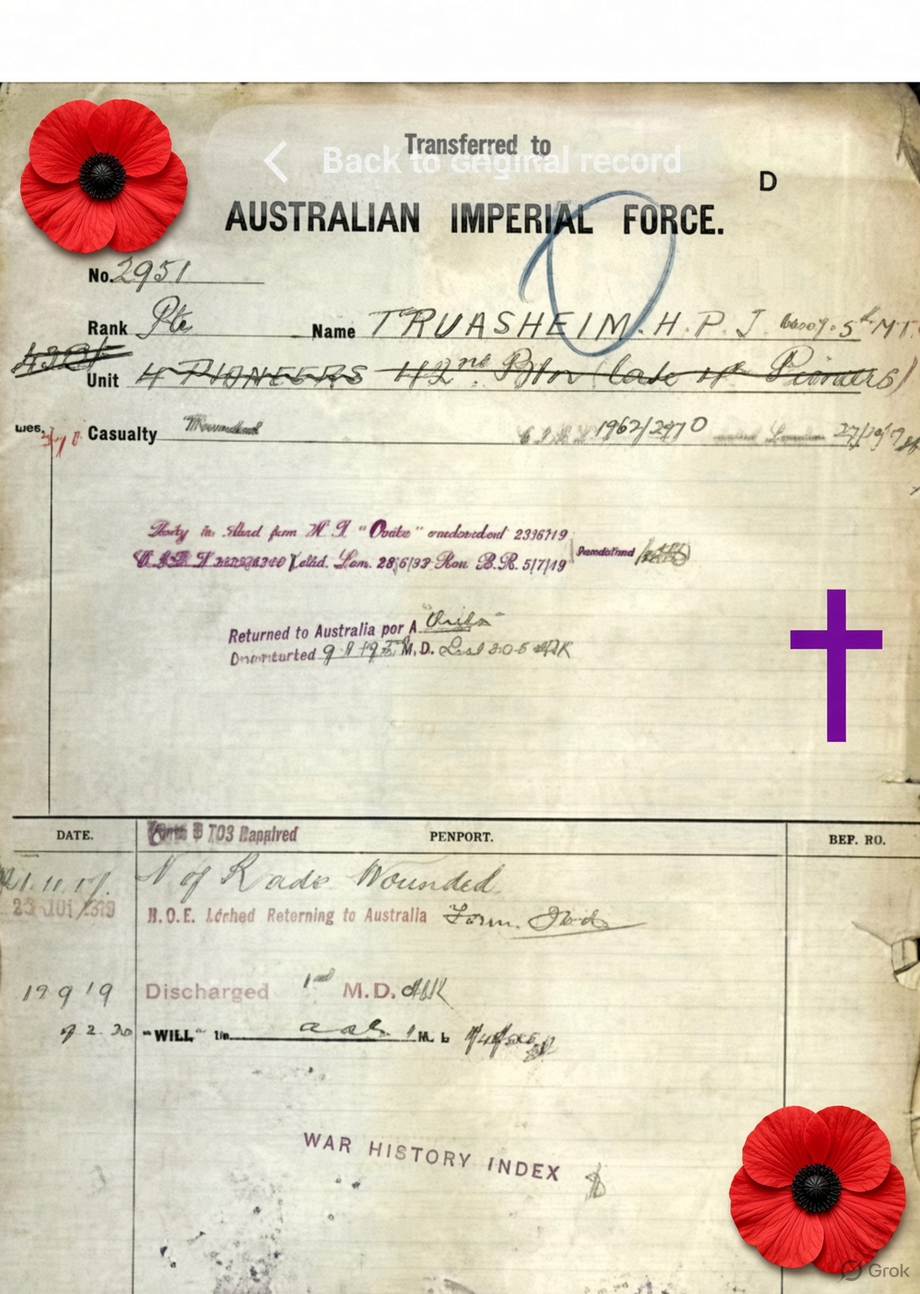
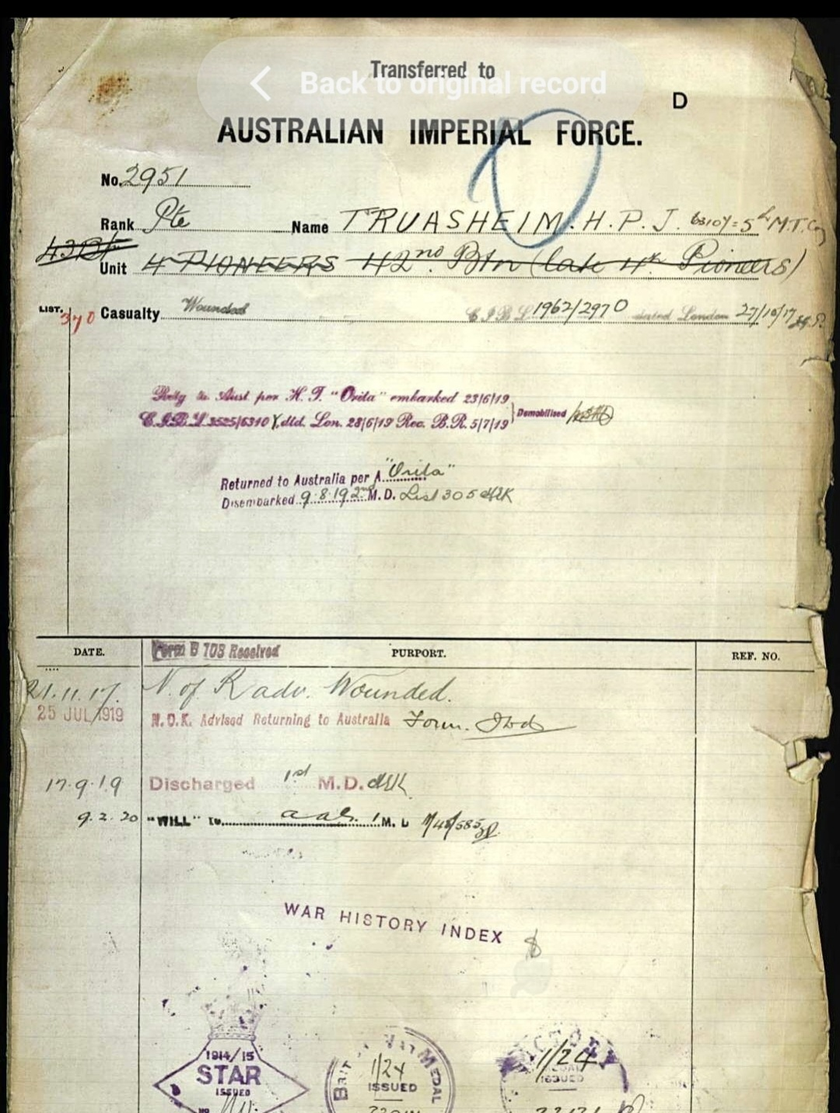
Replace decorated service paper with unchanged clean record scan

diff --git a/index.html b/index.html
@@ -1,3 +1,3 @@
 <!DOCTYPE html>
 
-<html lang="en-AU"><head><meta charset="utf-8"/><meta content="width=device-width,initial-scale=1" name="viewport"/><meta content="Harold’s family story: a young bugler from Fernvale, a remembered sound, and why we remember on Remembrance Day." name="description"/><title>My Granddad was a Bugler — Harold’s Story</title><link href="assets/site.css?v=20261107-oliver-style" rel="stylesheet"/></head><body><a class="skip" href="#story">Skip to Harold’s story</a><header class="wrap" id="home"><h1><svg aria-hidden="true" class="poppy-mark" focusable="false" height="44" viewbox="0 0 64 64" width="44"><circle cx="23" cy="22" fill="#ad3446" r="17"></circle><circle cx="42" cy="23" fill="#bb3c4e" r="17"></circle><circle cx="23" cy="42" fill="#bb3c4e" r="17"></circle><circle cx="42" cy="42" fill="#ad3446" r="17"></circle><circle cx="32" cy="32" fill="#352c2a" r="11"></circle></svg>My Granddad was a Bugler</h1><p class="subtitle">Harold’s story — a clear note and a family memory</p></header><main class="wrap"><article class="blog-article"><p class="article-intro">A bugle could call soldiers together. Years later, its clear note brought Harold’s grandchildren running in from the beach. This is his family’s story.</p><div class="opening"><figure class="portrait"><a aria-label="Open larger image: Illustrated cover with a bugle and red poppies." href="assets/images/story-01.jpg"><img alt="Illustrated cover with a bugle and red poppies." fetchpriority="high" height="1168" src="assets/images/story-01.jpg" width="784"/></a></figure></div><p class="gentle">Some parts mention loss, war and being wounded. You can read with an adult, <a href="#home-again">skip the trench details</a>, or go straight to <a href="#remember">why we remember</a>.</p><section aria-label="Harold’s story" id="story"><section class="story-part" id="part-1"><h2>The Boy from Fernvale</h2><p>Harold was just 18 in 1916 when he signed up for the war. He grew up in Fernvale, Queensland. By the time the war started, he already knew how to work hard.</p><p>Before the war, Harold worked as a butcher’s boy in Fernvale to help his family. His dad had died when Harold was only eight.</p><figure class="portrait"><a aria-label="Open larger image: Portrait-style picture of a young bugler holding his instrument." href="assets/images/story-02.jpg"><img alt="Portrait-style picture of a young bugler holding his instrument." height="1632" loading="lazy" src="assets/images/story-02.jpg" width="1216"/></a></figure></section><section class="story-part" id="part-2"><h2>Working Hard</h2><p>He wrapped meat, swept the floor, and learned to use a knife carefully. By the time he was fourteen, he had left school and was already earning his living.</p><p>Harold walked into a recruiting office in Brisbane and signed up. He had only just turned 18, and he was shorter than many of the other men. The officers looked at him and weren’t sure he would be strong enough for the usual soldier jobs, but they took him anyway.</p><figure class="portrait"><a aria-label="Open larger image: Harold’s attestation paper." href="assets/images/story-03.jpg?v=clean-attestation-20261107"><img alt="Harold’s attestation paper with its original official markings and handwriting." height="1436" loading="lazy" src="assets/images/story-03.jpg?v=clean-attestation-20261107" width="1070"/></a><figcaption>Ancestry record.</figcaption></figure></section><section class="story-part" id="part-3"><h2>The Clear Note</h2><p>He sailed from Brisbane on the troopship HMAT Boonah. The men went first to Egypt, where the 4th Pioneer Battalion was being formed. They trained in the heat and dust.</p><p>The battalion needed someone to play the bugle. One day in camp an officer asked if anyone could play. Young Harold said he could. The officer handed him a bugle and told him to show what he could do.</p><p>Harold put it to his lips and blew one clear, steady note. Then he tried a few of the calls. The officer listened and nodded. Harold got the job. He became a bugler for his unit.</p><figure class="landscape"><a aria-label="Open larger image: HMAT Boonah photograph." href="assets/images/story-04.jpg"><img alt="Historical photograph of the Australian troopship HMAT Boonah, about 1920." height="512" loading="lazy" src="assets/images/story-04.jpg" width="636"/></a></figure></section><section class="story-part" id="part-4"><h2>In the Trenches</h2><p>Later the battalion went to France. In winter the trenches were deep with mud. Cold water filled the bottom and the men stood in it for hours. Sometimes snow fell and lay on the frozen mud. The wind was sharp and hands went numb.</p><p>Harold was a bugler for his unit. The 4th Pioneer Battalion helped build and repair trenches. These were long, narrow ditches used by soldiers for protection and movement. Working in and around them could still be dangerous.</p><figure class="landscape"><a aria-label="Open larger image: Collage of soldiers and a bugler among muddy trenches." href="assets/images/story-05.jpg"><img alt="Collage of soldiers and a bugler among muddy trenches." height="784" loading="lazy" src="assets/images/story-05.jpg" width="1168"/></a></figure><div class="gallery"><figure class="landscape"><a aria-label="Open larger image: Collage of a bugler playing beside a trench and soldiers resting." href="assets/images/story-07.jpg"><img alt="Collage of a bugler playing beside a trench and soldiers resting." height="784" loading="lazy" src="assets/images/story-07.jpg" width="1168"/></a></figure></div><aside aria-labelledby="tour-heading" class="trench-tour"><p class="tour-kicker">Optional · Explore with an adult</p><h3 id="tour-heading">Explore a trench</h3><p>Look around model trench displays in the National WWI Museum and Memorial’s narrated immersive tour. It shows the museum’s displays before their 2024 renovation, not Harold’s own trench.</p><p><a class="button" href="https://artsandculture.google.com/story/MwXR5svcf515Iw" rel="noopener noreferrer" target="_blank">Open the museum’s immersive tour ↗</a></p><p class="note">An adult should preview this war-history tour and decide whether it suits you. Start on an ordinary screen; the museum also describes a VR option. You can skip the tour and keep reading. This opens Google Arts &amp; Culture in a new tab; nothing is embedded or played here.</p><p class="note"><a href="https://www.theworldwar.org/learn/educator-resource/immersive-tour-trenches-world-war-i" rel="noopener noreferrer" target="_blank">About this tour — National WWI Museum and Memorial ↗</a></p></aside></section><section class="story-part" id="home-again"><h2>Home Again</h2><p>Harold was wounded in France. He was sent home. He kept the bugle.</p><p>Years later, at his beach house in Beachmere, Harold would still take out the bugle. He blew one clear note from the balcony so the grandchildren would come running in from the beach.</p><figure class="portrait"><a aria-label="Open larger image: Service-paper collage." href="assets/images/story-09.jpg"><img alt="Service-paper collage." height="1664" loading="lazy" src="assets/images/story-09.jpg" width="1184"/></a><figcaption>Ancestry records (family attribution; edited collage).</figcaption></figure></section><section class="story-part" id="part-6"><h2>We Remember</h2><p>Today, when someone hears a bugle on Anzac Day or Remembrance Day, someone in the family thinks of the boy from Fernvale.</p><figure class="landscape"><a aria-label="Open larger image: Illustration of a bugler playing beside an Anzac memorial and wreaths." href="assets/images/story-10.jpg"><img alt="Illustration of a bugler playing beside an Anzac memorial and wreaths." height="784" loading="lazy" src="assets/images/story-10.jpg" width="1168"/></a></figure></section></section><section class="remember" id="remember"><p class="eyebrow">11 November</p><h2><svg aria-hidden="true" class="poppy-mark" focusable="false" height="44" viewbox="0 0 64 64" width="44"><circle cx="23" cy="22" fill="#ad3446" r="17"></circle><circle cx="42" cy="23" fill="#bb3c4e" r="17"></circle><circle cx="23" cy="42" fill="#bb3c4e" r="17"></circle><circle cx="42" cy="42" fill="#ad3446" r="17"></circle><circle cx="32" cy="32" fill="#352c2a" r="11"></circle></svg>Why we remember</h2><p>Remembrance Day is a time to remember people who died or suffered in wars and armed conflicts. It is not a celebration of war.</p><p>At 11 am on 11 November 1918, an agreement called an <strong>armistice</strong> stopped fighting on the Western Front in Europe. This did not mean that every war everywhere had ended.</p><p>In Australia, people are encouraged to pause for one minute’s silence at 11 am on 11 November. We can remember those who served, think about families and civilians affected by war, and hope for peace.</p><p>Red poppies grew on damaged battlefields in northern France and Belgium. The red poppy became a symbol of remembrance.</p><p class="lest"><svg aria-hidden="true" class="poppy-mark" focusable="false" height="44" viewbox="0 0 64 64" width="44"><circle cx="23" cy="22" fill="#ad3446" r="17"></circle><circle cx="42" cy="23" fill="#bb3c4e" r="17"></circle><circle cx="23" cy="42" fill="#bb3c4e" r="17"></circle><circle cx="42" cy="42" fill="#ad3446" r="17"></circle><circle cx="32" cy="32" fill="#352c2a" r="11"></circle></svg>Lest we forget.</p><p><strong>Does your family have a way of remembering someone who served?</strong> You can think about Harold’s story instead if you prefer not to share a personal memory.</p></section><section class="listen" id="listen"><p class="eyebrow">Listening is optional</p><h2>Listen to the bugle</h2><p>A bugler is someone who plays a bugle. The Last Post is a particular bugle call used at remembrance ceremonies.</p><div class="listen-links"><a class="button" href="https://www.awm.gov.au/anzacathome/remembering-hub/listen" rel="noopener noreferrer" target="_blank">Listen: the Last Post ↗</a><a href="https://www.awm.gov.au/commemoration/customs-and-ceremony/last-post" rel="noopener noreferrer" target="_blank">Read about the Last Post ↗</a><a href="https://www.awm.gov.au/collection/S00265" rel="noopener noreferrer" target="_blank">Bugle recordings: Last Post and Reveille ↗</a></div><p class="note">These links open Australian War Memorial pages in a new tab. Listen with an adult, starting at a low volume. Nothing plays automatically on this page. The recordings are not of Harold.</p></section><details class="sources"><summary>Image credits and historical sources</summary><p>This family recollection has not been independently checked against service records. Some artwork is AI-generated. Illustrations and edited record collages are not presented as independently authenticated photographs or original military records.</p><p>The family identifies the records as Ancestry records. The service-paper collage includes decorative additions and a Grok watermark; the underlying records have not been independently verified here.</p><p>Ship photograph: <a href="https://commons.wikimedia.org/wiki/File:HMAT_Boonah.jpg">HMAT Boonah, about 1920 — Wikimedia Commons</a>. Photographer not identified on the file page. The file is marked public domain under PD-Australia and PD-1996. This photograph shows the vessel, not a verified image of Harold’s voyage.</p><p>Creators and underlying rights for the other images have not been established; no public-domain status is claimed for them.</p><p>Historical context: <a href="https://www.awm.gov.au/commemoration/remembrance-day/traditions">Australian War Memorial: Origins of Remembrance Day</a>; <a href="https://www.awm.gov.au/commemoration/customs-and-ceremony/poppies">Flanders poppies</a>; <a href="https://www.awm.gov.au/commemoration/customs-and-ceremony/last-post">The Last Post</a>.</p><p>Optional immersive tour: <a href="https://artsandculture.google.com/story/MwXR5svcf515Iw">Trenches — National WWI Museum and Memorial, Google Arts &amp; Culture</a>. The museum describes narrated model-trench exploration with a VR option. It is not a tour of Harold’s personal service locations. Adult preview is recommended.</p><p>4th Pioneer Battalion and trenches: Australian War Memorial records show members <a href="https://www.awm.gov.au/collection/E03358">moving up to the trenches at Le Verguier</a>, <a href="https://www.awm.gov.au/collection/C1223148">digging a support trench at Hamel</a>, and <a href="https://www.awm.gov.au/collection/P11031309">repairing communication trenches near Pozières</a>. These establish the unit’s work, not Harold’s individual duties or where he sounded his bugle. Some linked service histories describe deaths and injuries; adults should preview them.</p></details></article></main><footer class="wrap"><p>Story © 2026</p><p><a href="#home">Back to the start ↑</a> · <a href="teacher/">Read-together notes</a> · <a href="worksheet.html">Draw and remember</a></p><p><a href="https://robmac10.github.io/history.html">Author’s History website ↗</a></p></footer></body></html>
+<html lang="en-AU"><head><meta charset="utf-8"/><meta content="width=device-width,initial-scale=1" name="viewport"/><meta content="Harold’s family story: a young bugler from Fernvale, a remembered sound, and why we remember on Remembrance Day." name="description"/><title>My Granddad was a Bugler — Harold’s Story</title><link href="assets/site.css?v=20261107-oliver-style" rel="stylesheet"/></head><body><a class="skip" href="#story">Skip to Harold’s story</a><header class="wrap" id="home"><h1><svg aria-hidden="true" class="poppy-mark" focusable="false" height="44" viewbox="0 0 64 64" width="44"><circle cx="23" cy="22" fill="#ad3446" r="17"></circle><circle cx="42" cy="23" fill="#bb3c4e" r="17"></circle><circle cx="23" cy="42" fill="#bb3c4e" r="17"></circle><circle cx="42" cy="42" fill="#ad3446" r="17"></circle><circle cx="32" cy="32" fill="#352c2a" r="11"></circle></svg>My Granddad was a Bugler</h1><p class="subtitle">Harold’s story — a clear note and a family memory</p></header><main class="wrap"><article class="blog-article"><p class="article-intro">A bugle could call soldiers together. Years later, its clear note brought Harold’s grandchildren running in from the beach. This is his family’s story.</p><div class="opening"><figure class="portrait"><a aria-label="Open larger image: Illustrated cover with a bugle and red poppies." href="assets/images/story-01.jpg"><img alt="Illustrated cover with a bugle and red poppies." fetchpriority="high" height="1168" src="assets/images/story-01.jpg" width="784"/></a></figure></div><p class="gentle">Some parts mention loss, war and being wounded. You can read with an adult, <a href="#home-again">skip the trench details</a>, or go straight to <a href="#remember">why we remember</a>.</p><section aria-label="Harold’s story" id="story"><section class="story-part" id="part-1"><h2>The Boy from Fernvale</h2><p>Harold was just 18 in 1916 when he signed up for the war. He grew up in Fernvale, Queensland. By the time the war started, he already knew how to work hard.</p><p>Before the war, Harold worked as a butcher’s boy in Fernvale to help his family. His dad had died when Harold was only eight.</p><figure class="portrait"><a aria-label="Open larger image: Portrait-style picture of a young bugler holding his instrument." href="assets/images/story-02.jpg"><img alt="Portrait-style picture of a young bugler holding his instrument." height="1632" loading="lazy" src="assets/images/story-02.jpg" width="1216"/></a></figure></section><section class="story-part" id="part-2"><h2>Working Hard</h2><p>He wrapped meat, swept the floor, and learned to use a knife carefully. By the time he was fourteen, he had left school and was already earning his living.</p><p>Harold walked into a recruiting office in Brisbane and signed up. He had only just turned 18, and he was shorter than many of the other men. The officers looked at him and weren’t sure he would be strong enough for the usual soldier jobs, but they took him anyway.</p><figure class="portrait"><a aria-label="Open larger image: Harold’s attestation paper." href="assets/images/story-03.jpg?v=clean-attestation-20261107"><img alt="Harold’s attestation paper with its original official markings and handwriting." height="1436" loading="lazy" src="assets/images/story-03.jpg?v=clean-attestation-20261107" width="1070"/></a><figcaption>Ancestry record.</figcaption></figure></section><section class="story-part" id="part-3"><h2>The Clear Note</h2><p>He sailed from Brisbane on the troopship HMAT Boonah. The men went first to Egypt, where the 4th Pioneer Battalion was being formed. They trained in the heat and dust.</p><p>The battalion needed someone to play the bugle. One day in camp an officer asked if anyone could play. Young Harold said he could. The officer handed him a bugle and told him to show what he could do.</p><p>Harold put it to his lips and blew one clear, steady note. Then he tried a few of the calls. The officer listened and nodded. Harold got the job. He became a bugler for his unit.</p><figure class="landscape"><a aria-label="Open larger image: HMAT Boonah photograph." href="assets/images/story-04.jpg"><img alt="Historical photograph of the Australian troopship HMAT Boonah, about 1920." height="512" loading="lazy" src="assets/images/story-04.jpg" width="636"/></a></figure></section><section class="story-part" id="part-4"><h2>In the Trenches</h2><p>Later the battalion went to France. In winter the trenches were deep with mud. Cold water filled the bottom and the men stood in it for hours. Sometimes snow fell and lay on the frozen mud. The wind was sharp and hands went numb.</p><p>Harold was a bugler for his unit. The 4th Pioneer Battalion helped build and repair trenches. These were long, narrow ditches used by soldiers for protection and movement. Working in and around them could still be dangerous.</p><figure class="landscape"><a aria-label="Open larger image: Collage of soldiers and a bugler among muddy trenches." href="assets/images/story-05.jpg"><img alt="Collage of soldiers and a bugler among muddy trenches." height="784" loading="lazy" src="assets/images/story-05.jpg" width="1168"/></a></figure><div class="gallery"><figure class="landscape"><a aria-label="Open larger image: Collage of a bugler playing beside a trench and soldiers resting." href="assets/images/story-07.jpg"><img alt="Collage of a bugler playing beside a trench and soldiers resting." height="784" loading="lazy" src="assets/images/story-07.jpg" width="1168"/></a></figure></div><aside aria-labelledby="tour-heading" class="trench-tour"><p class="tour-kicker">Optional · Explore with an adult</p><h3 id="tour-heading">Explore a trench</h3><p>Look around model trench displays in the National WWI Museum and Memorial’s narrated immersive tour. It shows the museum’s displays before their 2024 renovation, not Harold’s own trench.</p><p><a class="button" href="https://artsandculture.google.com/story/MwXR5svcf515Iw" rel="noopener noreferrer" target="_blank">Open the museum’s immersive tour ↗</a></p><p class="note">An adult should preview this war-history tour and decide whether it suits you. Start on an ordinary screen; the museum also describes a VR option. You can skip the tour and keep reading. This opens Google Arts &amp; Culture in a new tab; nothing is embedded or played here.</p><p class="note"><a href="https://www.theworldwar.org/learn/educator-resource/immersive-tour-trenches-world-war-i" rel="noopener noreferrer" target="_blank">About this tour — National WWI Museum and Memorial ↗</a></p></aside></section><section class="story-part" id="home-again"><h2>Home Again</h2><p>Harold was wounded in France. He was sent home. He kept the bugle.</p><p>Years later, at his beach house in Beachmere, Harold would still take out the bugle. He blew one clear note from the balcony so the grandchildren would come running in from the beach.</p><figure class="portrait"><a aria-label="Open larger image: Harold’s service record." href="assets/images/story-09.jpg?v=clean-service-record-20261107"><img alt="Harold’s service record showing its original handwriting and official stamps." height="1432" loading="lazy" src="assets/images/story-09.jpg?v=clean-service-record-20261107" width="1080"/></a><figcaption>Ancestry record.</figcaption></figure></section><section class="story-part" id="part-6"><h2>We Remember</h2><p>Today, when someone hears a bugle on Anzac Day or Remembrance Day, someone in the family thinks of the boy from Fernvale.</p><figure class="landscape"><a aria-label="Open larger image: Illustration of a bugler playing beside an Anzac memorial and wreaths." href="assets/images/story-10.jpg"><img alt="Illustration of a bugler playing beside an Anzac memorial and wreaths." height="784" loading="lazy" src="assets/images/story-10.jpg" width="1168"/></a></figure></section></section><section class="remember" id="remember"><p class="eyebrow">11 November</p><h2><svg aria-hidden="true" class="poppy-mark" focusable="false" height="44" viewbox="0 0 64 64" width="44"><circle cx="23" cy="22" fill="#ad3446" r="17"></circle><circle cx="42" cy="23" fill="#bb3c4e" r="17"></circle><circle cx="23" cy="42" fill="#bb3c4e" r="17"></circle><circle cx="42" cy="42" fill="#ad3446" r="17"></circle><circle cx="32" cy="32" fill="#352c2a" r="11"></circle></svg>Why we remember</h2><p>Remembrance Day is a time to remember people who died or suffered in wars and armed conflicts. It is not a celebration of war.</p><p>At 11 am on 11 November 1918, an agreement called an <strong>armistice</strong> stopped fighting on the Western Front in Europe. This did not mean that every war everywhere had ended.</p><p>In Australia, people are encouraged to pause for one minute’s silence at 11 am on 11 November. We can remember those who served, think about families and civilians affected by war, and hope for peace.</p><p>Red poppies grew on damaged battlefields in northern France and Belgium. The red poppy became a symbol of remembrance.</p><p class="lest"><svg aria-hidden="true" class="poppy-mark" focusable="false" height="44" viewbox="0 0 64 64" width="44"><circle cx="23" cy="22" fill="#ad3446" r="17"></circle><circle cx="42" cy="23" fill="#bb3c4e" r="17"></circle><circle cx="23" cy="42" fill="#bb3c4e" r="17"></circle><circle cx="42" cy="42" fill="#ad3446" r="17"></circle><circle cx="32" cy="32" fill="#352c2a" r="11"></circle></svg>Lest we forget.</p><p><strong>Does your family have a way of remembering someone who served?</strong> You can think about Harold’s story instead if you prefer not to share a personal memory.</p></section><section class="listen" id="listen"><p class="eyebrow">Listening is optional</p><h2>Listen to the bugle</h2><p>A bugler is someone who plays a bugle. The Last Post is a particular bugle call used at remembrance ceremonies.</p><div class="listen-links"><a class="button" href="https://www.awm.gov.au/anzacathome/remembering-hub/listen" rel="noopener noreferrer" target="_blank">Listen: the Last Post ↗</a><a href="https://www.awm.gov.au/commemoration/customs-and-ceremony/last-post" rel="noopener noreferrer" target="_blank">Read about the Last Post ↗</a><a href="https://www.awm.gov.au/collection/S00265" rel="noopener noreferrer" target="_blank">Bugle recordings: Last Post and Reveille ↗</a></div><p class="note">These links open Australian War Memorial pages in a new tab. Listen with an adult, starting at a low volume. Nothing plays automatically on this page. The recordings are not of Harold.</p></section><details class="sources"><summary>Image credits and historical sources</summary><p>This family recollection has not been independently checked against service records. Some artwork is AI-generated. Illustrations are not presented as authenticated photographs.</p><p>The family identifies the two records as Ancestry records. Their contents have not been independently verified here.</p><p>Ship photograph: <a href="https://commons.wikimedia.org/wiki/File:HMAT_Boonah.jpg">HMAT Boonah, about 1920 — Wikimedia Commons</a>. Photographer not identified on the file page. The file is marked public domain under PD-Australia and PD-1996. This photograph shows the vessel, not a verified image of Harold’s voyage.</p><p>Creators and underlying rights for the other images have not been established; no public-domain status is claimed for them.</p><p>Historical context: <a href="https://www.awm.gov.au/commemoration/remembrance-day/traditions">Australian War Memorial: Origins of Remembrance Day</a>; <a href="https://www.awm.gov.au/commemoration/customs-and-ceremony/poppies">Flanders poppies</a>; <a href="https://www.awm.gov.au/commemoration/customs-and-ceremony/last-post">The Last Post</a>.</p><p>Optional immersive tour: <a href="https://artsandculture.google.com/story/MwXR5svcf515Iw">Trenches — National WWI Museum and Memorial, Google Arts &amp; Culture</a>. The museum describes narrated model-trench exploration with a VR option. It is not a tour of Harold’s personal service locations. Adult preview is recommended.</p><p>4th Pioneer Battalion and trenches: Australian War Memorial records show members <a href="https://www.awm.gov.au/collection/E03358">moving up to the trenches at Le Verguier</a>, <a href="https://www.awm.gov.au/collection/C1223148">digging a support trench at Hamel</a>, and <a href="https://www.awm.gov.au/collection/P11031309">repairing communication trenches near Pozières</a>. These establish the unit’s work, not Harold’s individual duties or where he sounded his bugle. Some linked service histories describe deaths and injuries; adults should preview them.</p></details></article></main><footer class="wrap"><p>Story © 2026</p><p><a href="#home">Back to the start ↑</a> · <a href="teacher/">Read-together notes</a> · <a href="worksheet.html">Draw and remember</a></p><p><a href="https://robmac10.github.io/history.html">Author’s History website ↗</a></p></footer></body></html>

diff --git a/README.md b/README.md
@@ -2,7 +2,7 @@
 
 Large-text illustrated family story with Why we remember and Australian War Memorial listening links. Story © 2026.
 
-Six narrative sections and ten images. Only the two record collages have visible captions. The family identifies those images as Ancestry records; these are edited collages with decorative additions and Grok watermarks, not independently authenticated records. The original unmasked embedded image bytes are displayed at the author's explicit request. Public narrative uses Harold's given name. Some other artwork is AI-generated.
+Six narrative sections and eight displayed images. Only the two records have visible captions. The family identifies them as Ancestry records. Both record images display the exact clean scan bytes selected by the author, without added decorations or masks; the service-record image retains its original screenshot navigation text. Public narrative uses Harold's given name. Some other artwork is AI-generated. The records have not been independently verified here.
 
 Ship photograph: HMAT Boonah, about 1920. Wikimedia Commons https://commons.wikimedia.org/wiki/File:HMAT_Boonah.jpg . Photographer not identified. Commons marks the file public domain under PD-Australia and PD-1996. Downloaded from https://upload.wikimedia.org/wikipedia/commons/c/c6/HMAT_Boonah.jpg . It depicts the vessel, not a verified image of Harold's voyage. Other image creators and underlying rights have not been established; no public-domain status is claimed for them.
 
